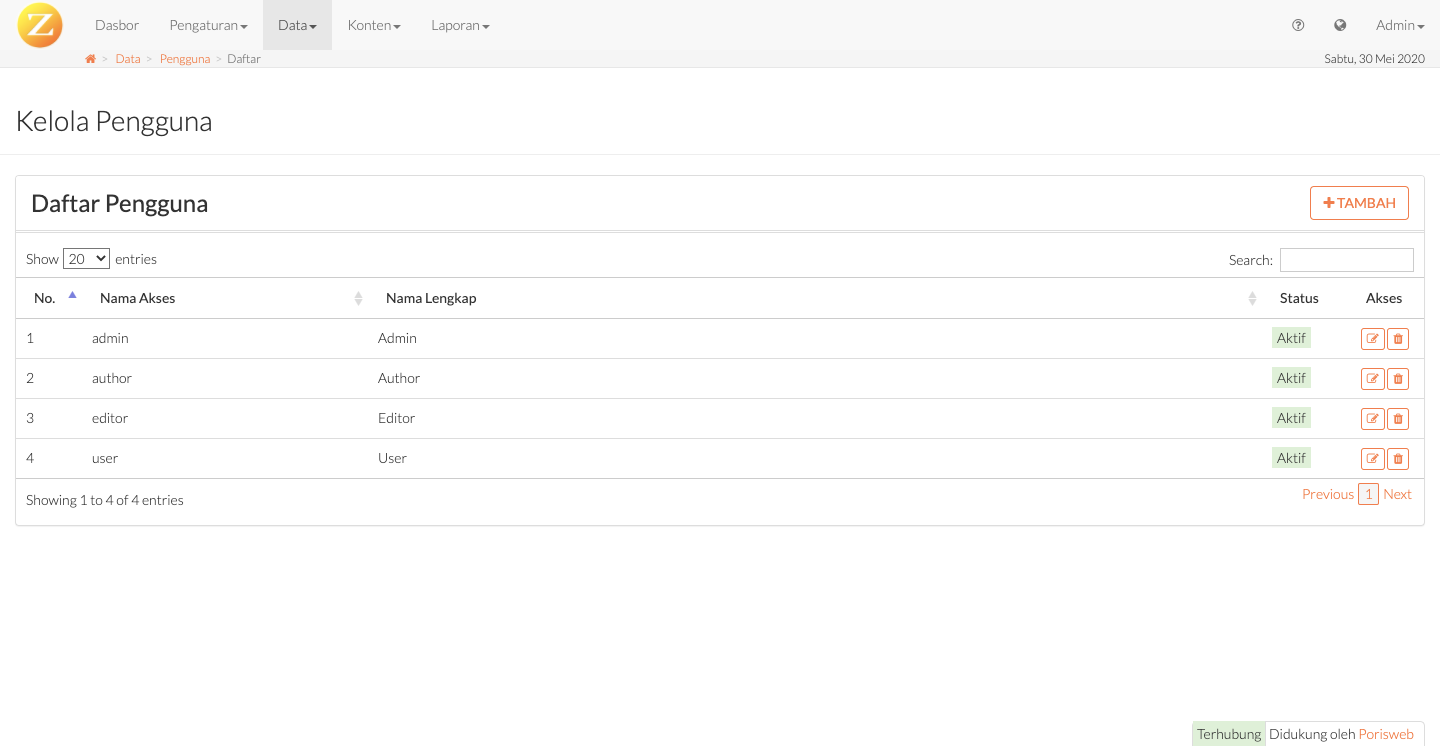
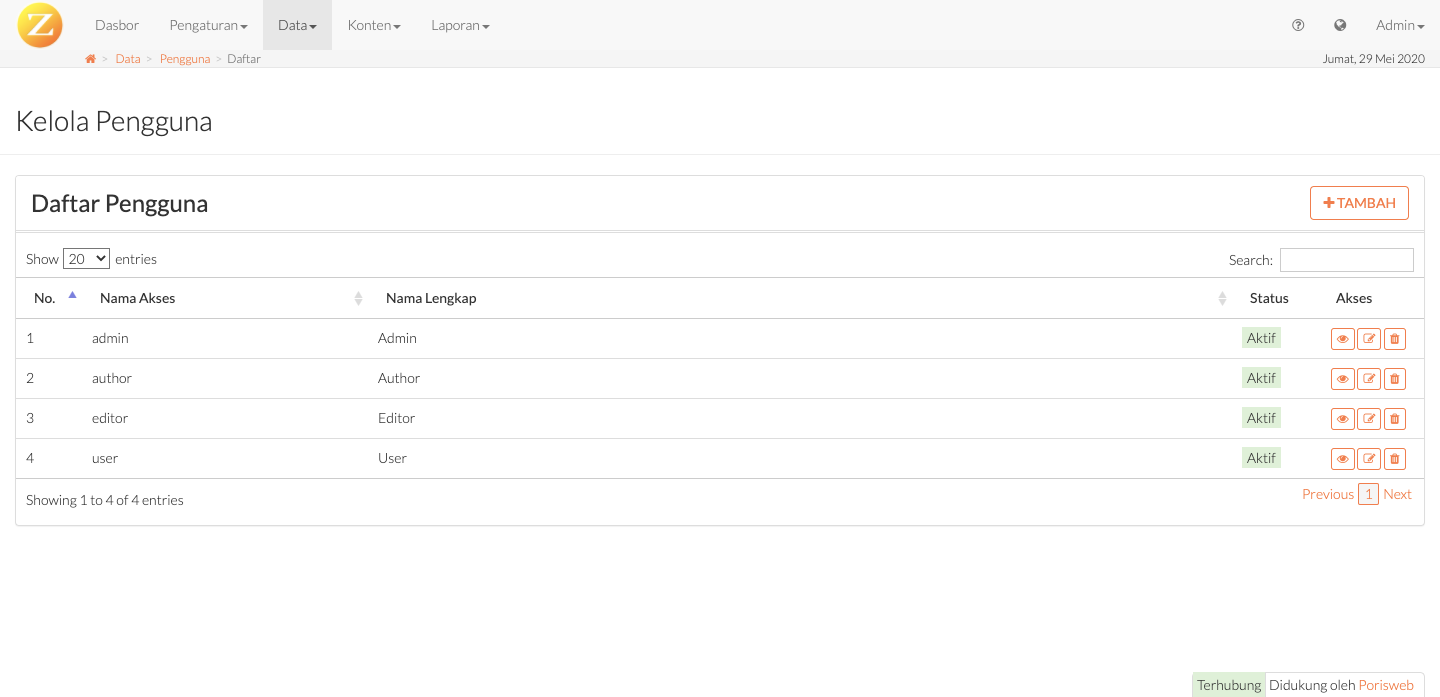
help user

diff --git a/src/database/seeds/GuideSeeder.php b/src/database/seeds/GuideSeeder.php
@@ -136,7 +136,7 @@ class GuideSeeder extends Seeder
         $content .= '</ul>';
         $setSiteInfo = Guide::create([
             'title' => 'Informasi Utama',
-            'slug' => 'pengaturan-infoutama',
+            'slug' => 'pengaturan-situs-infoutama',
             'content' => $content,
             'roles' => 'super,admin',
             'order' => $setSiteOrder++,
@@ -148,7 +148,7 @@ class GuideSeeder extends Seeder
         $content = '<p>Sebagai daftar akun media sosial Anda atau perusahaan Anda. Klik tombol <a class="btn btn-default btn-xs"><span class="fa fa-plus"></span></a> untuk menambahkan akun media sosial lainnya.</p>';
         $setSiteMedsos = Guide::create([
             'title' => 'Media Sosial',
-            'slug' => 'pengaturan-mediasosial',
+            'slug' => 'pengaturan-situs-mediasosial',
             'content' => $content,
             'roles' => 'super,admin',
             'order' => $setSiteOrder++,
@@ -164,7 +164,7 @@ class GuideSeeder extends Seeder
         $content .= '</ul>';
         $setSiteMedsos = Guide::create([
             'title' => 'SEO (Search Engine Optimization)',
-            'slug' => 'pengaturan-seo',
+            'slug' => 'pengaturan-situs-seo',
             'content' => $content,
             'roles' => 'super,admin',
             'order' => $setSiteOrder++,
@@ -179,7 +179,7 @@ class GuideSeeder extends Seeder
         $content .= '</ul>';
         $setSiteMedsos = Guide::create([
             'title' => 'Lokasi',
-            'slug' => 'pengaturan-lokasi',
+            'slug' => 'pengaturan-situs-lokasi',
             'content' => $content,
             'roles' => 'super,admin',
             'order' => $setSiteOrder++,
@@ -322,7 +322,7 @@ class GuideSeeder extends Seeder
         ]);
 
         /* Pengaturan - Peran & Akses */
-        $content = '<p>Daftar peran untuk pengelompokan akses pengguna. Kolom <code>Peran</code> sebagai nama peram, kolom <code>Deskripsi</code> merupakan penjelasan singkat mengenai peran tersebut, kolom <code>Status</code> memperlihatkan apakah peran aktif atau tidak, serta kolom <code>Akses</code> yang merupakan tombol untuk mengatur peran dan akses tersebut. Tombol <a class="btn btn-default btn-xs"><span class="fa fa-edit"><span></a> <code>Edit</code> untuk mengedit peran dan tombol <a class="btn btn-default btn-xs"><span class="fa fa-trash"><span></a> <code>Hapus</code> untuk menghapus peran. Anda dapat menambahkan peran dengan menekan tombol <a class="btn btn-default btn-sm"><span class="fa fa-plus"></span> TAMBAH</a>.</p>';
+        $content = '<p>Daftar peran untuk pengelompokan akses pengguna. Kolom <code>Peran</code> sebagai nama peram, kolom <code>Deskripsi</code> merupakan penjelasan singkat mengenai peran tersebut, kolom <code>Status</code> memperlihatkan apakah peran aktif atau tidak, serta kolom <code>Akses</code> yang merupakan tombol untuk mengatur peran dan akses tersebut. Tombol <a class="btn btn-default btn-xs"><span class="fa fa-edit"><span></a> <code>Edit</code> untuk mengedit peran dan tombol <a class="btn btn-default btn-xs"><span class="fa fa-trash"><span></a> <code>Hapus</code> untuk menghapus peran. Anda dapat menambahkan peran dengan menekan tombol <a class="btn btn-default btn-xs"><span class="fa fa-plus"></span> TAMBAH</a>.</p>';
         $setRole = Guide::create([
             'cover' => '/themes/admin/AdminSC/images/guide/pengaturan-peran.png',
             'title' => 'Peran dan Akses',
@@ -400,34 +400,91 @@ class GuideSeeder extends Seeder
         ]);
 
         /* Data - Pengguna*/
-        $content = '<p>Daftar user situs baik pengurus maupun member. Rinciannya adalah kolom <code>Photo</code> untuk menampilkan foto user, <code>Username</code> menampilkan nama login user, kolom <code>Fullname</code> merupakan nama lengkap user, kolom <code>Email</code> merupakan alamat email user untuk kepentingan komunikasi melalui email, kolom <code>Status</code> memperlihatkan apakah user aktif atau tidak, serta kolom <code>Action</code> yang merupakan tombol untuk mengatur user-user tersebut. Tombol <a class="btn btn-default btn-xs"><span class="fa fa-edit"><span></a> <code>Edit</code> untuk mengedit user dan tombol <a class="btn btn-default btn-xs"><span class="fa fa-trash"><span></a> <code>Delete</code> untuk menghapus user. Anda dapat menambahkannya dengan menekan tombol <a class="btn btn-default btn-sm">+ ADD</a>.</p>';
-        $content .= '<h3 id="user-add-edit">Add & Edit</h3>';
-        $content .= '<p><center><a href="/themes/admin/AdminSC/images/guide/005 User - 02 Overview Edit.png" target="_blank"><img src="/themes/admin/AdminSC/images/guide/005 User - 02 Overview Edit.png" width="100%"></a></center></p>';
-        $content .= '<h4 id="user-main-info">Main Info</h4>';
-        $content .= '<ul>';
-        $content .= '<li><b>Username</b>, nama yang akan digunakan untuk login. Maksimal 20 karakter dan tidak dapat diubah apabila data sudah disimpan.</li>';
-        $content .= '<li><b>Email</b>, alamat email user untuk kepentingan komunikasi melalui email. Input dengan alamat email yang valid.</li>';
-        $content .= '<li><b>Password</b>, digunakan untuk validasi login. Minimal 6 karakter.</li>';
-        $content .= '<li><b>Retype Password</b>, untuk konfirmasi password login.</li>';
-        $content .= '<li><b>Fullname</b>, nama lengkap yang akan tampil di situs. Maksimal 50 karakter.</li>';
-        $content .= '<li><b>Biography</b>, sedikit ulasan tentang user.</li>';
-        $content .= '<li><b>Photo</b>, ukuran foto maksimal lebar 500px dan tinggi 500px.</li>';
-        $content .= '<li><b>Group</b>, tentukan grup user untuk mengakses situs.</li>';
-        $content .= '<li><b>Active</b>, centang untuk mengaktifkan user.</li>';
-        $content .= '</ul>';
-        $content .= '<h4 id="user-social-media">Social Media</h4>';
-        $content .= 'Sebagai daftar akun social media user. Klik tombol <a class="btn btn-default btn-xs">+ Add</a> untuk menambahkan akun social media lainnya.';
+        $content = '<p>Daftar pengguna situs baik pengelola maupun anggota. Kolom <code>Nama Akses</code> menampilkan nama akses pengguna, kolom <code>Nama Lengkap</code> merupakan nama lengkap pengguna, kolom <code>Status</code> memperlihatkan apakah pengguna aktif atau tidak, serta kolom <code>Akses</code> yang merupakan tombol untuk mengatur data pengguna tersebut. Tombol <a class="btn btn-default btn-xs"><span class="fa fa-eye"><span></a> <code>Detail</code> untuk melihat data pengguna secara lengkap, tombol <a class="btn btn-default btn-xs"><span class="fa fa-edit"><span></a> <code>Edit</code> untuk mengedit data pengguna dan tombol <a class="btn btn-default btn-xs"><span class="fa fa-trash"><span></a> <code>Hapus</code> untuk menghapus data pengguna. Anda dapat menambahkan pengguna dengan menekan tombol <a class="btn btn-default btn-xs"><span class="fa fa-plus"></span> TAMBAH</a>.</p>';
         $content .= '<h3 id="user-delete">Delete</h3>';
-        $content .= '<p><center><a href="/themes/admin/AdminSC/images/guide/005 User - 03 Overview Delete.png" target="_blank"><img src="/themes/admin/AdminSC/images/guide/005 User - 03 Overview Delete.png" width="100%"></a></center></p>';
         $content .= '<p>Saat Anda menekan tombol hapus pada salah satu daftar user, akan ada pop-up konfirmasi sebelum data dihapus. Di dalam konfirmasi terdapat fitur <code>Delete Permanently</code> yang fungsinya adalah untuk benar-benar menghapus data dari database. Jika Anda mencentang fitur ini, maka data tidak dapat dikembalikan sama sekali jika suatu saat dibutuhkan.</p>';
         $dataUser = Guide::create([
-            'cover' => '/themes/admin/AdminSC/images/guide/005-User-00-Overview.png',
+            'cover' => '/themes/admin/AdminSC/images/guide/data-pengguna.png',
             'title' => 'Pengguna',
             'slug' => 'data-pengguna',
             'content' => $content,
             'roles' => 'super,admin',
             'order' => $dataOrder++,
             'parent_id' => $data->id,
+            'status' => 'active',
+        ]);
+
+        $dataUserOrder = 1;
+        /* Data - Pengguna - Detail*/
+        $content = '<p><i>Sedang dalam pengembangan..</i></p>';
+        $dataUserDetail = Guide::create([
+            'title' => 'Detail',
+            'slug' => 'data-pengguna-tambahedit-detail',
+            'content' => $content,
+            'roles' => 'super,admin',
+            'order' => $dataUserOrder++,
+            'parent_id' => $dataUser->id,
+            'status' => 'active',
+        ]);
+
+        /* Data - Pengguna - Tambah & Edit */
+        $content = 'Halaman untuk menambahkan data pengguna. Anda juga dapat menghapus data dari halaman ini jika dalam mode edit.';
+        $dataUserAdd = Guide::create([
+            'cover' => '/themes/admin/AdminSC/images/guide/data-pengguna-tambah.png',
+            'title' => 'Tambah & Edit',
+            'slug' => 'data-pengguna-tambahedit',
+            'content' => $content,
+            'roles' => 'super,admin',
+            'order' => $dataUserOrder++,
+            'parent_id' => $dataUser->id,
+            'status' => 'active',
+        ]);
+
+        $dataUserAddOrder = 1;
+        /* Data - Pengguna - Tambah - Informasi Utama*/
+        $content = '<ul>';
+        $content .= '<li><b>Nama Akses</b>, nama yang akan digunakan untuk akses masuk.</li>';
+        $content .= '<li><b>Email</b>, alamat surel pengguna untuk kepentingan komunikasi melalui surel. Dapat juga digunakan sebagak akses masuk.</li>';
+        $content .= '<li><b>Sandi</b>, digunakan untuk sandi akses amsuk. Minimal 6 karakter.</li>';
+        $content .= '<li><b>Ulangi Sandi</b>, untuk konfirmasi sandi.</li>';
+        $content .= '<li><b>Nama Lengkap</b>, nama lengkap pengguna yang akan tampil di situs.</li>';
+        $content .= '<li><b>Tentang</b>, sedikit ulasan tentang pengguna.</li>';
+        $content .= '<li><b>Foto</b>, maksimal dimensi foto adalah lebar 512px dan tinggi 512px dengan rasio 1:1 dan ukuran maksimal 384KB.</li>';
+        $content .= '<li><b>Peran</b>, tentukan peran pengguna untuk mengakses situs.</li>';
+        $content .= '<li><b>Aktif</b>, centang untuk mengaktifkan pengguna.</li>';
+        $content .= '</ul>';
+        $dataUserAddInfo = Guide::create([
+            'title' => 'Informasi Utama',
+            'slug' => 'data-pengguna-tambahedit-infoutama',
+            'content' => $content,
+            'roles' => 'super,admin',
+            'order' => $dataUserAddOrder++,
+            'parent_id' => $dataUserAdd->id,
+            'status' => 'active',
+        ]);
+
+        /* Data - Pengguna - Tambah - Media Sosial*/
+        $content = '<p>Sebagai daftar akun media sosial pengguna. Klik tombol <a class="btn btn-default btn-xs"><span class="fa fa-plus"></span></a> untuk menambahkan akun media sosial lainnya.</p>';
+        $dataUserAddInfo = Guide::create([
+            'title' => 'Media Sosial',
+            'slug' => 'data-pengguna-tambahedit-mediasosial',
+            'content' => $content,
+            'roles' => 'super,admin',
+            'order' => $dataUserAddOrder++,
+            'parent_id' => $dataUserAdd->id,
+            'status' => 'active',
+        ]);
+
+        /* Data - Pengguna - Hapus */
+        $content = '<p>Saat Anda menekan tombol hapus pada salah satu daftar pengguna, akan muncul konfirmasi sebelum data dihapus untuk mencegah terjadinya kesalahan hapus data.</p>';
+        $dataUserAdd = Guide::create([
+            'cover' => '/themes/admin/AdminSC/images/guide/data-pengguna-hapus.png',
+            'title' => 'Hapus',
+            'slug' => 'data-pengguna-hapus',
+            'content' => $content,
+            'roles' => 'super,admin',
+            'order' => $dataUserOrder++,
+            'parent_id' => $dataUser->id,
             'status' => 'active',
         ]);
 

diff --git a/src/resources/views/AdminSC/data/users.blade.php b/src/resources/views/AdminSC/data/users.blade.php
@@ -65,7 +65,7 @@
           "render": function (data, type, row, meta) {
             var actions = '';
             var url = ADMIN_URL + "/data/users/" + data;
-            var del = "_delete('" + url + "')";
+            var del = "_delete('" + url + "', 'pengguna \\'"+ row.name +"\\'')";
             {!! getAccessButtons() !!}
             $('[data-toggle="tooltip"]').tooltip();
 
@@ -104,7 +104,7 @@
             "render": function (data, type, row, meta) {
               let actions = '';
               let url = ADMIN_URL + "/data/users/" + data;
-              let del = "_delete('" + url + "')";
+              let del = "_delete('" + url + "', 'pengguna \\'"+ row.name +"\\'')";
               {!! getAccessButtons() !!}
               $('[data-toggle="tooltip"]').tooltip();
 

diff --git a/src/resources/views/AdminSC/data/users_form.blade.php b/src/resources/views/AdminSC/data/users_form.blade.php
@@ -157,7 +157,7 @@
 				<div class="col-md-offset-2 col-md-4">
 					{{ isset($data) ? method_field('PUT') : '' }}
 					{{ csrf_field() }}
-					{{ getButtonPost($current_url, true, $data->id ?? '') }}
+					{{ getButtonPost($current_url, true, $data->id ?? '', isset($data) ? 'pengguna \\\'' . $data->name . '\\\'' : null) }}
 				</div>
 			</div>
 		</form>
